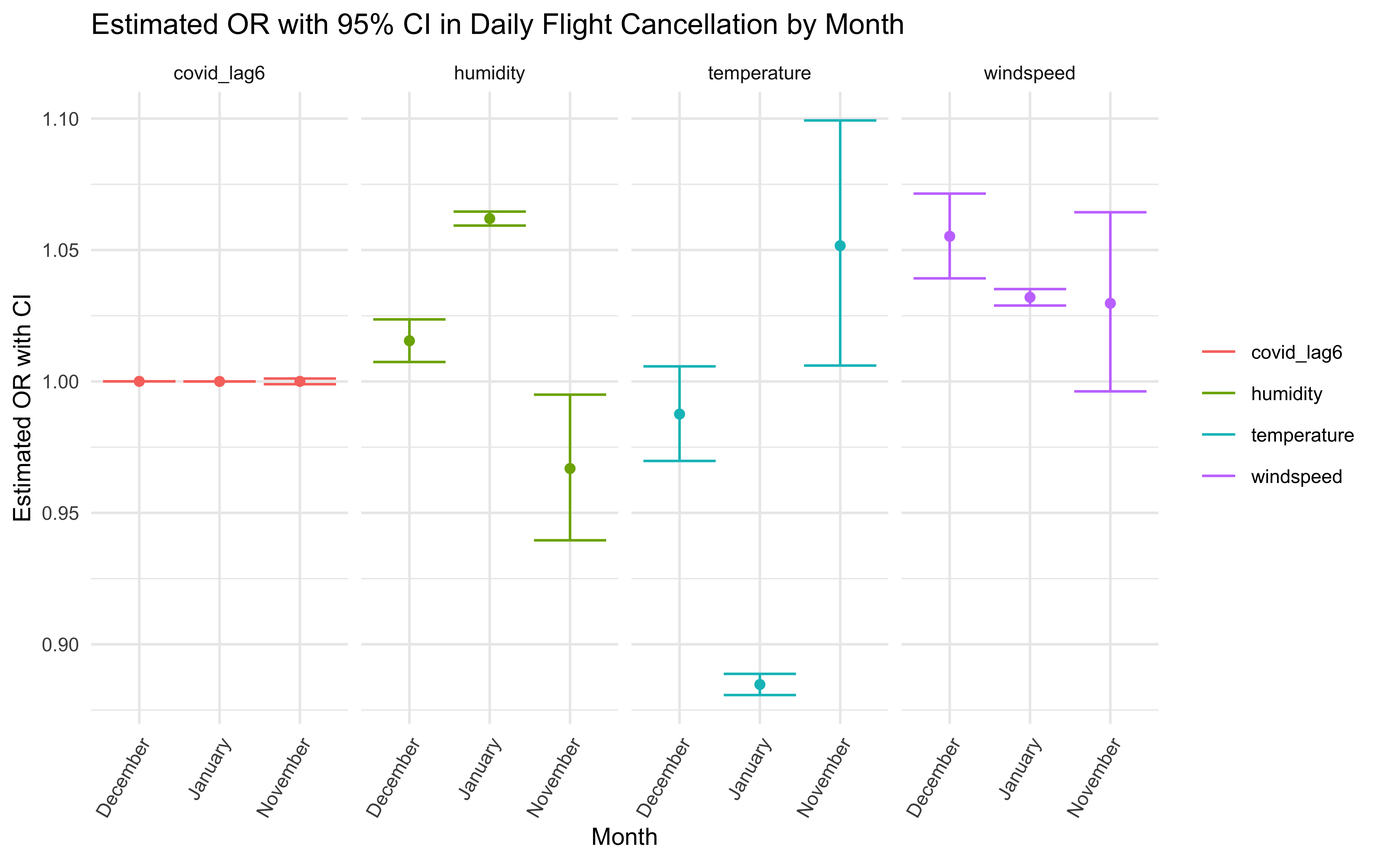
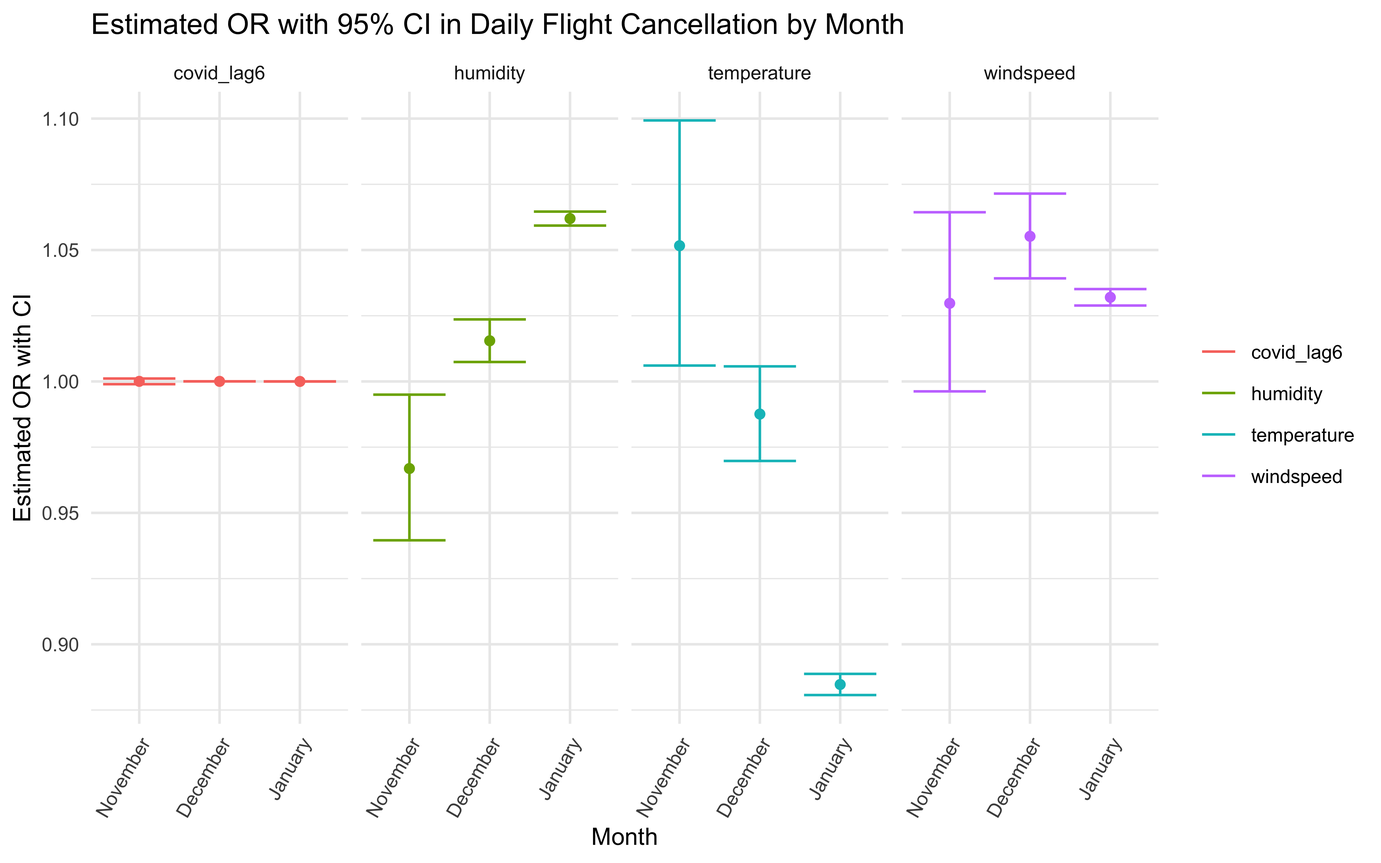
update poisson model

diff --git a/web_poisson.html b/web_poisson.html
@@ -600,7 +600,7 @@ United Air Lines
 </tr>
 </tbody>
 </table>
-<pre class="r"><code>cancel_airline %&gt;% 
+<pre class="r"><code>plot1 &lt;- cancel_airline %&gt;% 
   mutate(year_month = fct_relevel(year_month, &quot;2021-Nov&quot;, &quot;2021-Dec&quot;, &quot;2022-Jan&quot;)) %&gt;%
   ggplot(aes(x = year_month, y = Total_number_of_cancellation, fill = airline_name)) +
   geom_col(position = &quot;dodge&quot;, alpha = .7) +
@@ -614,9 +614,9 @@ United Air Lines
     fill = &quot;Airline&quot;,
     title = &quot;Flight Cancellations by Month&quot;,
     subtitle = &quot;Nov, 2021 to Jan, 2022&quot;
-  )</code></pre>
-<p><img src="web_poisson_files/figure-html/unnamed-chunk-5-1.png" width="80%" /></p>
-<pre class="r"><code>cancel_airline %&gt;% 
+  )
+
+plot2 &lt;- cancel_airline %&gt;% 
   mutate(year_month = fct_relevel(year_month, &quot;2021-Nov&quot;, &quot;2021-Dec&quot;, &quot;2022-Jan&quot;)) %&gt;% 
   ggplot(aes(x = airline_name, y = Total_number_of_cancellation, fill = year_month)) +
   geom_col(position = &quot;dodge&quot;, alpha = .7) +
@@ -630,8 +630,10 @@ United Air Lines
     fill = &quot;Year, Month&quot;,
     title = &quot;Flight Cancellations by Month&quot;,
     subtitle = &quot;Nov, 2021 to Jan, 2022&quot;
-  )</code></pre>
-<p><img src="web_poisson_files/figure-html/unnamed-chunk-6-1.png" width="80%" /></p>
+  )
+
+plot1 + plot2</code></pre>
+<p><img src="web_poisson_files/figure-html/unnamed-chunk-5-1.png" width="80%" /></p>
 <p><br></p>
 </div>
 <div id="lagging-covid-cases" class="section level3">
@@ -666,9 +668,9 @@ scatter_plot &lt;- subplot(cancel_plot, covid_plot, nrows = 2, shareX = TRUE) %&
          showlegend = FALSE)
 
 scatter_plot</code></pre>
-<div id="htmlwidget-cc10683bdfa9083f08fa" style="width:90%;height:70%;" class="plotly html-widget"></div>
-<script type="application/json" data-for="htmlwidget-cc10683bdfa9083f08fa">{"x":{"data":[{"x":["2021-11-01","2021-11-02","2021-11-06","2021-11-07","2021-11-08","2021-11-10","2021-11-11","2021-11-12","2021-11-13","2021-11-15","2021-11-16","2021-11-17","2021-11-18","2021-11-21","2021-11-22","2021-11-25","2021-11-26","2021-11-28","2021-11-29","2021-11-30","2021-12-01","2021-12-07","2021-12-08","2021-12-09","2021-12-10","2021-12-11","2021-12-13","2021-12-14","2021-12-15","2021-12-16","2021-12-18","2021-12-20","2021-12-21","2021-12-22","2021-12-23","2021-12-24","2021-12-25","2021-12-26","2021-12-27","2021-12-28","2021-12-29","2021-12-30","2021-12-31","2022-01-01","2022-01-02","2022-01-03","2022-01-04","2022-01-05","2022-01-06","2022-01-07","2022-01-08","2022-01-09","2022-01-10","2022-01-11","2022-01-12","2022-01-13","2022-01-14","2022-01-15","2022-01-16","2022-01-17","2022-01-18","2022-01-19","2022-01-20","2022-01-21","2022-01-22","2022-01-23","2022-01-24","2022-01-25","2022-01-26","2022-01-27","2022-01-28","2022-01-29","2022-01-30","2022-01-31"],"y":[9,2,2,1,2,6,1,3,5,2,2,2,3,1,1,3,2,1,3,1,2,3,2,2,4,4,3,1,2,2,3,1,2,2,8,19,30,35,27,19,22,38,29,39,54,49,28,6,16,127,11,8,9,5,5,3,2,6,57,15,6,4,17,21,5,3,2,3,2,2,52,333,206,33],"mode":"lines+markers","text":["Date: 2021-11-01<br />Cancellation Count: 9","Date: 2021-11-02<br />Cancellation Count: 2","Date: 2021-11-06<br />Cancellation Count: 2","Date: 2021-11-07<br />Cancellation Count: 1","Date: 2021-11-08<br />Cancellation Count: 2","Date: 2021-11-10<br />Cancellation Count: 6","Date: 2021-11-11<br />Cancellation Count: 1","Date: 2021-11-12<br />Cancellation Count: 3","Date: 2021-11-13<br />Cancellation Count: 5","Date: 2021-11-15<br />Cancellation Count: 2","Date: 2021-11-16<br />Cancellation Count: 2","Date: 2021-11-17<br />Cancellation Count: 2","Date: 2021-11-18<br />Cancellation Count: 3","Date: 2021-11-21<br />Cancellation Count: 1","Date: 2021-11-22<br />Cancellation Count: 1","Date: 2021-11-25<br />Cancellation Count: 3","Date: 2021-11-26<br />Cancellation Count: 2","Date: 2021-11-28<br />Cancellation Count: 1","Date: 2021-11-29<br />Cancellation Count: 3","Date: 2021-11-30<br />Cancellation Count: 1","Date: 2021-12-01<br />Cancellation Count: 2","Date: 2021-12-07<br />Cancellation Count: 3","Date: 2021-12-08<br />Cancellation Count: 2","Date: 2021-12-09<br />Cancellation Count: 2","Date: 2021-12-10<br />Cancellation Count: 4","Date: 2021-12-11<br />Cancellation Count: 4","Date: 2021-12-13<br />Cancellation Count: 3","Date: 2021-12-14<br />Cancellation Count: 1","Date: 2021-12-15<br />Cancellation Count: 2","Date: 2021-12-16<br />Cancellation Count: 2","Date: 2021-12-18<br />Cancellation Count: 3","Date: 2021-12-20<br />Cancellation Count: 1","Date: 2021-12-21<br />Cancellation Count: 2","Date: 2021-12-22<br />Cancellation Count: 2","Date: 2021-12-23<br />Cancellation Count: 8","Date: 2021-12-24<br />Cancellation Count: 19","Date: 2021-12-25<br />Cancellation Count: 30","Date: 2021-12-26<br />Cancellation Count: 35","Date: 2021-12-27<br />Cancellation Count: 27","Date: 2021-12-28<br />Cancellation Count: 19","Date: 2021-12-29<br />Cancellation Count: 22","Date: 2021-12-30<br />Cancellation Count: 38","Date: 2021-12-31<br />Cancellation Count: 29","Date: 2022-01-01<br />Cancellation Count: 39","Date: 2022-01-02<br />Cancellation Count: 54","Date: 2022-01-03<br />Cancellation Count: 49","Date: 2022-01-04<br />Cancellation Count: 28","Date: 2022-01-05<br />Cancellation Count: 6","Date: 2022-01-06<br />Cancellation Count: 16","Date: 2022-01-07<br />Cancellation Count: 127","Date: 2022-01-08<br />Cancellation Count: 11","Date: 2022-01-09<br />Cancellation Count: 8","Date: 2022-01-10<br />Cancellation Count: 9","Date: 2022-01-11<br />Cancellation Count: 5","Date: 2022-01-12<br />Cancellation Count: 5","Date: 2022-01-13<br />Cancellation Count: 3","Date: 2022-01-14<br />Cancellation Count: 2","Date: 2022-01-15<br />Cancellation Count: 6","Date: 2022-01-16<br />Cancellation Count: 57","Date: 2022-01-17<br />Cancellation Count: 15","Date: 2022-01-18<br />Cancellation Count: 6","Date: 2022-01-19<br />Cancellation Count: 4","Date: 2022-01-20<br />Cancellation Count: 17","Date: 2022-01-21<br />Cancellation Count: 21","Date: 2022-01-22<br />Cancellation Count: 5","Date: 2022-01-23<br />Cancellation Count: 3","Date: 2022-01-24<br />Cancellation Count: 2","Date: 2022-01-25<br />Cancellation Count: 3","Date: 2022-01-26<br />Cancellation Count: 2","Date: 2022-01-27<br />Cancellation Count: 2","Date: 2022-01-28<br />Cancellation Count: 52","Date: 2022-01-29<br />Cancellation Count: 333","Date: 2022-01-30<br />Cancellation Count: 206","Date: 2022-01-31<br />Cancellation Count: 33"],"hoverinfo":["text","text","text","text","text","text","text","text","text","text","text","text","text","text","text","text","text","text","text","text","text","text","text","text","text","text","text","text","text","text","text","text","text","text","text","text","text","text","text","text","text","text","text","text","text","text","text","text","text","text","text","text","text","text","text","text","text","text","text","text","text","text","text","text","text","text","text","text","text","text","text","text","text","text"],"type":"scatter","marker":{"color":"rgba(31,119,180,0.498)","line":{"color":"rgba(31,119,180,1)"}},"error_y":{"color":"rgba(31,119,180,0.498)"},"error_x":{"color":"rgba(31,119,180,0.498)"},"line":{"color":"rgba(31,119,180,0.498)"},"xaxis":"x","yaxis":"y","frame":null},{"x":["2021-11-01","2021-11-02","2021-11-06","2021-11-07","2021-11-08","2021-11-10","2021-11-11","2021-11-12","2021-11-13","2021-11-15","2021-11-16","2021-11-17","2021-11-18","2021-11-21","2021-11-22","2021-11-25","2021-11-26","2021-11-28","2021-11-29","2021-11-30","2021-12-01","2021-12-07","2021-12-08","2021-12-09","2021-12-10","2021-12-11","2021-12-13","2021-12-14","2021-12-15","2021-12-16","2021-12-18","2021-12-20","2021-12-21","2021-12-22","2021-12-23","2021-12-24","2021-12-25","2021-12-26","2021-12-27","2021-12-28","2021-12-29","2021-12-30","2021-12-31","2022-01-01","2022-01-02","2022-01-03","2022-01-04","2022-01-05","2022-01-06","2022-01-07","2022-01-08","2022-01-09","2022-01-10","2022-01-11","2022-01-12","2022-01-13","2022-01-14","2022-01-15","2022-01-16","2022-01-17","2022-01-18","2022-01-19","2022-01-20","2022-01-21","2022-01-22","2022-01-23","2022-01-24","2022-01-25","2022-01-26","2022-01-27","2022-01-28","2022-01-29","2022-01-30","2022-01-31"],"y":[780,806,508,542,1135,1049,875,1028,614,1263,1272,1329,1310,840,1528,531,1171,1060,2328,2006,2180,2922,3136,3022,3089,2159,7529,10875,13167,13866,9949,27953,30410,31401,31822,17475,7796,22991,51247,49688,50506,47451,29136,12063,32514,54958,49209,40241,36371,23206,16192,14352,25033,18537,18441,16096,13290,6759,6893,9828,10921,9030,7043,5797,3632,3397,6017,4763,4199,3634,2725,512,1425,3112],"mode":"lines+markers","text":["Date: 2021-11-01<br />COVID Cases Count: 780","Date: 2021-11-02<br />COVID Cases Count: 806","Date: 2021-11-06<br />COVID Cases Count: 508","Date: 2021-11-07<br />COVID Cases Count: 542","Date: 2021-11-08<br />COVID Cases Count: 1135","Date: 2021-11-10<br />COVID Cases Count: 1049","Date: 2021-11-11<br />COVID Cases Count: 875","Date: 2021-11-12<br />COVID Cases Count: 1028","Date: 2021-11-13<br />COVID Cases Count: 614","Date: 2021-11-15<br />COVID Cases Count: 1263","Date: 2021-11-16<br />COVID Cases Count: 1272","Date: 2021-11-17<br />COVID Cases Count: 1329","Date: 2021-11-18<br />COVID Cases Count: 1310","Date: 2021-11-21<br />COVID Cases Count: 840","Date: 2021-11-22<br />COVID Cases Count: 1528","Date: 2021-11-25<br />COVID Cases Count: 531","Date: 2021-11-26<br />COVID Cases Count: 1171","Date: 2021-11-28<br />COVID Cases Count: 1060","Date: 2021-11-29<br />COVID Cases Count: 2328","Date: 2021-11-30<br />COVID Cases Count: 2006","Date: 2021-12-01<br />COVID Cases Count: 2180","Date: 2021-12-07<br />COVID Cases Count: 2922","Date: 2021-12-08<br />COVID Cases Count: 3136","Date: 2021-12-09<br />COVID Cases Count: 3022","Date: 2021-12-10<br />COVID Cases Count: 3089","Date: 2021-12-11<br />COVID Cases Count: 2159","Date: 2021-12-13<br />COVID Cases Count: 7529","Date: 2021-12-14<br />COVID Cases Count: 10875","Date: 2021-12-15<br />COVID Cases Count: 13167","Date: 2021-12-16<br />COVID Cases Count: 13866","Date: 2021-12-18<br />COVID Cases Count: 9949","Date: 2021-12-20<br />COVID Cases Count: 27953","Date: 2021-12-21<br />COVID Cases Count: 30410","Date: 2021-12-22<br />COVID Cases Count: 31401","Date: 2021-12-23<br />COVID Cases Count: 31822","Date: 2021-12-24<br />COVID Cases Count: 17475","Date: 2021-12-25<br />COVID Cases Count: 7796","Date: 2021-12-26<br />COVID Cases Count: 22991","Date: 2021-12-27<br />COVID Cases Count: 51247","Date: 2021-12-28<br />COVID Cases Count: 49688","Date: 2021-12-29<br />COVID Cases Count: 50506","Date: 2021-12-30<br />COVID Cases Count: 47451","Date: 2021-12-31<br />COVID Cases Count: 29136","Date: 2022-01-01<br />COVID Cases Count: 12063","Date: 2022-01-02<br />COVID Cases Count: 32514","Date: 2022-01-03<br />COVID Cases Count: 54958","Date: 2022-01-04<br />COVID Cases Count: 49209","Date: 2022-01-05<br />COVID Cases Count: 40241","Date: 2022-01-06<br />COVID Cases Count: 36371","Date: 2022-01-07<br />COVID Cases Count: 23206","Date: 2022-01-08<br />COVID Cases Count: 16192","Date: 2022-01-09<br />COVID Cases Count: 14352","Date: 2022-01-10<br />COVID Cases Count: 25033","Date: 2022-01-11<br />COVID Cases Count: 18537","Date: 2022-01-12<br />COVID Cases Count: 18441","Date: 2022-01-13<br />COVID Cases Count: 16096","Date: 2022-01-14<br />COVID Cases Count: 13290","Date: 2022-01-15<br />COVID Cases Count: 6759","Date: 2022-01-16<br />COVID Cases Count: 6893","Date: 2022-01-17<br />COVID Cases Count: 9828","Date: 2022-01-18<br />COVID Cases Count: 10921","Date: 2022-01-19<br />COVID Cases Count: 9030","Date: 2022-01-20<br />COVID Cases Count: 7043","Date: 2022-01-21<br />COVID Cases Count: 5797","Date: 2022-01-22<br />COVID Cases Count: 3632","Date: 2022-01-23<br />COVID Cases Count: 3397","Date: 2022-01-24<br />COVID Cases Count: 6017","Date: 2022-01-25<br />COVID Cases Count: 4763","Date: 2022-01-26<br />COVID Cases Count: 4199","Date: 2022-01-27<br />COVID Cases Count: 3634","Date: 2022-01-28<br />COVID Cases Count: 2725","Date: 2022-01-29<br />COVID Cases Count: 512","Date: 2022-01-30<br />COVID Cases Count: 1425","Date: 2022-01-31<br />COVID Cases Count: 3112"],"hoverinfo":["text","text","text","text","text","text","text","text","text","text","text","text","text","text","text","text","text","text","text","text","text","text","text","text","text","text","text","text","text","text","text","text","text","text","text","text","text","text","text","text","text","text","text","text","text","text","text","text","text","text","text","text","text","text","text","text","text","text","text","text","text","text","text","text","text","text","text","text","text","text","text","text","text","text"],"type":"scatter","marker":{"color":"rgba(255,127,14,0.498)","line":{"color":"rgba(255,127,14,1)"}},"error_y":{"color":"rgba(255,127,14,0.498)"},"error_x":{"color":"rgba(255,127,14,0.498)"},"line":{"color":"rgba(255,127,14,0.498)"},"xaxis":"x","yaxis":"y2","frame":null}],"layout":{"xaxis":{"domain":[0,1],"automargin":true,"title":"Date","anchor":"y2"},"yaxis2":{"domain":[0,0.48],"automargin":true,"anchor":"x"},"yaxis":{"domain":[0.52,1],"automargin":true,"anchor":"x"},"annotations":[{"x":0.1,"y":0.904,"text":"Daily Flight Cncellations","showarrow":false,"xref":"paper","yref":"paper"},{"x":0.1,"y":0.384,"text":"Daily COVID Cases","showarrow":false,"xref":"paper","yref":"paper"}],"shapes":[],"images":[],"margin":{"b":40,"l":60,"t":25,"r":10},"hovermode":"closest","showlegend":false,"title":{"text":"Time Trend of Daily Cancellations vs. Daily COVID Cases"}},"attrs":{"1238a58766f6b":{"x":{},"y":{},"mode":"lines+markers","text":{},"hoverinfo":"text","alpha":0.5,"alpha_stroke":1,"sizes":[10,100],"spans":[1,20],"type":"scatter"},"1238a478d072c":{"x":{},"y":{},"mode":"lines+markers","text":{},"hoverinfo":"text","alpha":0.5,"alpha_stroke":1,"sizes":[10,100],"spans":[1,20],"type":"scatter"}},"source":"A","config":{"modeBarButtonsToAdd":["hoverclosest","hovercompare"],"showSendToCloud":false},"highlight":{"on":"plotly_click","persistent":false,"dynamic":false,"selectize":false,"opacityDim":0.2,"selected":{"opacity":1},"debounce":0},"subplot":true,"shinyEvents":["plotly_hover","plotly_click","plotly_selected","plotly_relayout","plotly_brushed","plotly_brushing","plotly_clickannotation","plotly_doubleclick","plotly_deselect","plotly_afterplot","plotly_sunburstclick"],"base_url":"https://plot.ly"},"evals":[],"jsHooks":[]}</script>
-<p>We used the lag selection criteria and Akaike’s information criterion
+<div id="htmlwidget-ccfb36fd293a960bd135" style="width:90%;height:70%;" class="plotly html-widget"></div>
+<script type="application/json" data-for="htmlwidget-ccfb36fd293a960bd135">{"x":{"data":[{"x":["2021-11-01","2021-11-02","2021-11-06","2021-11-07","2021-11-08","2021-11-10","2021-11-11","2021-11-12","2021-11-13","2021-11-15","2021-11-16","2021-11-17","2021-11-18","2021-11-21","2021-11-22","2021-11-25","2021-11-26","2021-11-28","2021-11-29","2021-11-30","2021-12-01","2021-12-07","2021-12-08","2021-12-09","2021-12-10","2021-12-11","2021-12-13","2021-12-14","2021-12-15","2021-12-16","2021-12-18","2021-12-20","2021-12-21","2021-12-22","2021-12-23","2021-12-24","2021-12-25","2021-12-26","2021-12-27","2021-12-28","2021-12-29","2021-12-30","2021-12-31","2022-01-01","2022-01-02","2022-01-03","2022-01-04","2022-01-05","2022-01-06","2022-01-07","2022-01-08","2022-01-09","2022-01-10","2022-01-11","2022-01-12","2022-01-13","2022-01-14","2022-01-15","2022-01-16","2022-01-17","2022-01-18","2022-01-19","2022-01-20","2022-01-21","2022-01-22","2022-01-23","2022-01-24","2022-01-25","2022-01-26","2022-01-27","2022-01-28","2022-01-29","2022-01-30","2022-01-31"],"y":[9,2,2,1,2,6,1,3,5,2,2,2,3,1,1,3,2,1,3,1,2,3,2,2,4,4,3,1,2,2,3,1,2,2,8,19,30,35,27,19,22,38,29,39,54,49,28,6,16,127,11,8,9,5,5,3,2,6,57,15,6,4,17,21,5,3,2,3,2,2,52,333,206,33],"mode":"lines+markers","text":["Date: 2021-11-01<br />Cancellation Count: 9","Date: 2021-11-02<br />Cancellation Count: 2","Date: 2021-11-06<br />Cancellation Count: 2","Date: 2021-11-07<br />Cancellation Count: 1","Date: 2021-11-08<br />Cancellation Count: 2","Date: 2021-11-10<br />Cancellation Count: 6","Date: 2021-11-11<br />Cancellation Count: 1","Date: 2021-11-12<br />Cancellation Count: 3","Date: 2021-11-13<br />Cancellation Count: 5","Date: 2021-11-15<br />Cancellation Count: 2","Date: 2021-11-16<br />Cancellation Count: 2","Date: 2021-11-17<br />Cancellation Count: 2","Date: 2021-11-18<br />Cancellation Count: 3","Date: 2021-11-21<br />Cancellation Count: 1","Date: 2021-11-22<br />Cancellation Count: 1","Date: 2021-11-25<br />Cancellation Count: 3","Date: 2021-11-26<br />Cancellation Count: 2","Date: 2021-11-28<br />Cancellation Count: 1","Date: 2021-11-29<br />Cancellation Count: 3","Date: 2021-11-30<br />Cancellation Count: 1","Date: 2021-12-01<br />Cancellation Count: 2","Date: 2021-12-07<br />Cancellation Count: 3","Date: 2021-12-08<br />Cancellation Count: 2","Date: 2021-12-09<br />Cancellation Count: 2","Date: 2021-12-10<br />Cancellation Count: 4","Date: 2021-12-11<br />Cancellation Count: 4","Date: 2021-12-13<br />Cancellation Count: 3","Date: 2021-12-14<br />Cancellation Count: 1","Date: 2021-12-15<br />Cancellation Count: 2","Date: 2021-12-16<br />Cancellation Count: 2","Date: 2021-12-18<br />Cancellation Count: 3","Date: 2021-12-20<br />Cancellation Count: 1","Date: 2021-12-21<br />Cancellation Count: 2","Date: 2021-12-22<br />Cancellation Count: 2","Date: 2021-12-23<br />Cancellation Count: 8","Date: 2021-12-24<br />Cancellation Count: 19","Date: 2021-12-25<br />Cancellation Count: 30","Date: 2021-12-26<br />Cancellation Count: 35","Date: 2021-12-27<br />Cancellation Count: 27","Date: 2021-12-28<br />Cancellation Count: 19","Date: 2021-12-29<br />Cancellation Count: 22","Date: 2021-12-30<br />Cancellation Count: 38","Date: 2021-12-31<br />Cancellation Count: 29","Date: 2022-01-01<br />Cancellation Count: 39","Date: 2022-01-02<br />Cancellation Count: 54","Date: 2022-01-03<br />Cancellation Count: 49","Date: 2022-01-04<br />Cancellation Count: 28","Date: 2022-01-05<br />Cancellation Count: 6","Date: 2022-01-06<br />Cancellation Count: 16","Date: 2022-01-07<br />Cancellation Count: 127","Date: 2022-01-08<br />Cancellation Count: 11","Date: 2022-01-09<br />Cancellation Count: 8","Date: 2022-01-10<br />Cancellation Count: 9","Date: 2022-01-11<br />Cancellation Count: 5","Date: 2022-01-12<br />Cancellation Count: 5","Date: 2022-01-13<br />Cancellation Count: 3","Date: 2022-01-14<br />Cancellation Count: 2","Date: 2022-01-15<br />Cancellation Count: 6","Date: 2022-01-16<br />Cancellation Count: 57","Date: 2022-01-17<br />Cancellation Count: 15","Date: 2022-01-18<br />Cancellation Count: 6","Date: 2022-01-19<br />Cancellation Count: 4","Date: 2022-01-20<br />Cancellation Count: 17","Date: 2022-01-21<br />Cancellation Count: 21","Date: 2022-01-22<br />Cancellation Count: 5","Date: 2022-01-23<br />Cancellation Count: 3","Date: 2022-01-24<br />Cancellation Count: 2","Date: 2022-01-25<br />Cancellation Count: 3","Date: 2022-01-26<br />Cancellation Count: 2","Date: 2022-01-27<br />Cancellation Count: 2","Date: 2022-01-28<br />Cancellation Count: 52","Date: 2022-01-29<br />Cancellation Count: 333","Date: 2022-01-30<br />Cancellation Count: 206","Date: 2022-01-31<br />Cancellation Count: 33"],"hoverinfo":["text","text","text","text","text","text","text","text","text","text","text","text","text","text","text","text","text","text","text","text","text","text","text","text","text","text","text","text","text","text","text","text","text","text","text","text","text","text","text","text","text","text","text","text","text","text","text","text","text","text","text","text","text","text","text","text","text","text","text","text","text","text","text","text","text","text","text","text","text","text","text","text","text","text"],"type":"scatter","marker":{"color":"rgba(31,119,180,0.498)","line":{"color":"rgba(31,119,180,1)"}},"error_y":{"color":"rgba(31,119,180,0.498)"},"error_x":{"color":"rgba(31,119,180,0.498)"},"line":{"color":"rgba(31,119,180,0.498)"},"xaxis":"x","yaxis":"y","frame":null},{"x":["2021-11-01","2021-11-02","2021-11-06","2021-11-07","2021-11-08","2021-11-10","2021-11-11","2021-11-12","2021-11-13","2021-11-15","2021-11-16","2021-11-17","2021-11-18","2021-11-21","2021-11-22","2021-11-25","2021-11-26","2021-11-28","2021-11-29","2021-11-30","2021-12-01","2021-12-07","2021-12-08","2021-12-09","2021-12-10","2021-12-11","2021-12-13","2021-12-14","2021-12-15","2021-12-16","2021-12-18","2021-12-20","2021-12-21","2021-12-22","2021-12-23","2021-12-24","2021-12-25","2021-12-26","2021-12-27","2021-12-28","2021-12-29","2021-12-30","2021-12-31","2022-01-01","2022-01-02","2022-01-03","2022-01-04","2022-01-05","2022-01-06","2022-01-07","2022-01-08","2022-01-09","2022-01-10","2022-01-11","2022-01-12","2022-01-13","2022-01-14","2022-01-15","2022-01-16","2022-01-17","2022-01-18","2022-01-19","2022-01-20","2022-01-21","2022-01-22","2022-01-23","2022-01-24","2022-01-25","2022-01-26","2022-01-27","2022-01-28","2022-01-29","2022-01-30","2022-01-31"],"y":[780,806,508,542,1135,1049,875,1028,614,1263,1272,1329,1310,840,1528,531,1171,1060,2328,2006,2180,2922,3136,3022,3089,2159,7529,10875,13167,13866,9949,27953,30410,31401,31822,17475,7796,22991,51247,49688,50506,47451,29136,12063,32514,54958,49209,40241,36371,23206,16192,14352,25033,18537,18441,16096,13290,6759,6893,9828,10921,9030,7043,5797,3632,3397,6017,4763,4199,3634,2725,512,1425,3112],"mode":"lines+markers","text":["Date: 2021-11-01<br />COVID Cases Count: 780","Date: 2021-11-02<br />COVID Cases Count: 806","Date: 2021-11-06<br />COVID Cases Count: 508","Date: 2021-11-07<br />COVID Cases Count: 542","Date: 2021-11-08<br />COVID Cases Count: 1135","Date: 2021-11-10<br />COVID Cases Count: 1049","Date: 2021-11-11<br />COVID Cases Count: 875","Date: 2021-11-12<br />COVID Cases Count: 1028","Date: 2021-11-13<br />COVID Cases Count: 614","Date: 2021-11-15<br />COVID Cases Count: 1263","Date: 2021-11-16<br />COVID Cases Count: 1272","Date: 2021-11-17<br />COVID Cases Count: 1329","Date: 2021-11-18<br />COVID Cases Count: 1310","Date: 2021-11-21<br />COVID Cases Count: 840","Date: 2021-11-22<br />COVID Cases Count: 1528","Date: 2021-11-25<br />COVID Cases Count: 531","Date: 2021-11-26<br />COVID Cases Count: 1171","Date: 2021-11-28<br />COVID Cases Count: 1060","Date: 2021-11-29<br />COVID Cases Count: 2328","Date: 2021-11-30<br />COVID Cases Count: 2006","Date: 2021-12-01<br />COVID Cases Count: 2180","Date: 2021-12-07<br />COVID Cases Count: 2922","Date: 2021-12-08<br />COVID Cases Count: 3136","Date: 2021-12-09<br />COVID Cases Count: 3022","Date: 2021-12-10<br />COVID Cases Count: 3089","Date: 2021-12-11<br />COVID Cases Count: 2159","Date: 2021-12-13<br />COVID Cases Count: 7529","Date: 2021-12-14<br />COVID Cases Count: 10875","Date: 2021-12-15<br />COVID Cases Count: 13167","Date: 2021-12-16<br />COVID Cases Count: 13866","Date: 2021-12-18<br />COVID Cases Count: 9949","Date: 2021-12-20<br />COVID Cases Count: 27953","Date: 2021-12-21<br />COVID Cases Count: 30410","Date: 2021-12-22<br />COVID Cases Count: 31401","Date: 2021-12-23<br />COVID Cases Count: 31822","Date: 2021-12-24<br />COVID Cases Count: 17475","Date: 2021-12-25<br />COVID Cases Count: 7796","Date: 2021-12-26<br />COVID Cases Count: 22991","Date: 2021-12-27<br />COVID Cases Count: 51247","Date: 2021-12-28<br />COVID Cases Count: 49688","Date: 2021-12-29<br />COVID Cases Count: 50506","Date: 2021-12-30<br />COVID Cases Count: 47451","Date: 2021-12-31<br />COVID Cases Count: 29136","Date: 2022-01-01<br />COVID Cases Count: 12063","Date: 2022-01-02<br />COVID Cases Count: 32514","Date: 2022-01-03<br />COVID Cases Count: 54958","Date: 2022-01-04<br />COVID Cases Count: 49209","Date: 2022-01-05<br />COVID Cases Count: 40241","Date: 2022-01-06<br />COVID Cases Count: 36371","Date: 2022-01-07<br />COVID Cases Count: 23206","Date: 2022-01-08<br />COVID Cases Count: 16192","Date: 2022-01-09<br />COVID Cases Count: 14352","Date: 2022-01-10<br />COVID Cases Count: 25033","Date: 2022-01-11<br />COVID Cases Count: 18537","Date: 2022-01-12<br />COVID Cases Count: 18441","Date: 2022-01-13<br />COVID Cases Count: 16096","Date: 2022-01-14<br />COVID Cases Count: 13290","Date: 2022-01-15<br />COVID Cases Count: 6759","Date: 2022-01-16<br />COVID Cases Count: 6893","Date: 2022-01-17<br />COVID Cases Count: 9828","Date: 2022-01-18<br />COVID Cases Count: 10921","Date: 2022-01-19<br />COVID Cases Count: 9030","Date: 2022-01-20<br />COVID Cases Count: 7043","Date: 2022-01-21<br />COVID Cases Count: 5797","Date: 2022-01-22<br />COVID Cases Count: 3632","Date: 2022-01-23<br />COVID Cases Count: 3397","Date: 2022-01-24<br />COVID Cases Count: 6017","Date: 2022-01-25<br />COVID Cases Count: 4763","Date: 2022-01-26<br />COVID Cases Count: 4199","Date: 2022-01-27<br />COVID Cases Count: 3634","Date: 2022-01-28<br />COVID Cases Count: 2725","Date: 2022-01-29<br />COVID Cases Count: 512","Date: 2022-01-30<br />COVID Cases Count: 1425","Date: 2022-01-31<br />COVID Cases Count: 3112"],"hoverinfo":["text","text","text","text","text","text","text","text","text","text","text","text","text","text","text","text","text","text","text","text","text","text","text","text","text","text","text","text","text","text","text","text","text","text","text","text","text","text","text","text","text","text","text","text","text","text","text","text","text","text","text","text","text","text","text","text","text","text","text","text","text","text","text","text","text","text","text","text","text","text","text","text","text","text"],"type":"scatter","marker":{"color":"rgba(255,127,14,0.498)","line":{"color":"rgba(255,127,14,1)"}},"error_y":{"color":"rgba(255,127,14,0.498)"},"error_x":{"color":"rgba(255,127,14,0.498)"},"line":{"color":"rgba(255,127,14,0.498)"},"xaxis":"x","yaxis":"y2","frame":null}],"layout":{"xaxis":{"domain":[0,1],"automargin":true,"title":"Date","anchor":"y2"},"yaxis2":{"domain":[0,0.48],"automargin":true,"anchor":"x"},"yaxis":{"domain":[0.52,1],"automargin":true,"anchor":"x"},"annotations":[{"x":0.1,"y":0.904,"text":"Daily Flight Cncellations","showarrow":false,"xref":"paper","yref":"paper"},{"x":0.1,"y":0.384,"text":"Daily COVID Cases","showarrow":false,"xref":"paper","yref":"paper"}],"shapes":[],"images":[],"margin":{"b":40,"l":60,"t":25,"r":10},"hovermode":"closest","showlegend":false,"title":{"text":"Time Trend of Daily Cancellations vs. Daily COVID Cases"}},"attrs":{"127d15d013661":{"x":{},"y":{},"mode":"lines+markers","text":{},"hoverinfo":"text","alpha":0.5,"alpha_stroke":1,"sizes":[10,100],"spans":[1,20],"type":"scatter"},"127d17a9949fa":{"x":{},"y":{},"mode":"lines+markers","text":{},"hoverinfo":"text","alpha":0.5,"alpha_stroke":1,"sizes":[10,100],"spans":[1,20],"type":"scatter"}},"source":"A","config":{"modeBarButtonsToAdd":["hoverclosest","hovercompare"],"showSendToCloud":false},"highlight":{"on":"plotly_click","persistent":false,"dynamic":false,"selectize":false,"opacityDim":0.2,"selected":{"opacity":1},"debounce":0},"subplot":true,"shinyEvents":["plotly_hover","plotly_click","plotly_selected","plotly_relayout","plotly_brushed","plotly_brushing","plotly_clickannotation","plotly_doubleclick","plotly_deselect","plotly_afterplot","plotly_sunburstclick"],"base_url":"https://plot.ly"},"evals":[],"jsHooks":[]}</script>
+<p>We used the lag selection criteria and Akaike information criterion
 (AIC) to select 6 days as the optimal time lag. Then, we constructed a
 new variable named <code>covid_lag6</code>, equivalent to the value of
 COVID-19 cases with a 6-day time lag.</p>
@@ -694,12 +696,9 @@ poisson %&gt;%
     p.value = format(p.value, scientific = TRUE, digits = 3)
   ) %&gt;% 
   dplyr::select(term, estimate, OR, p.value) %&gt;% 
-  knitr::kable(digits = 3, col.names = c(&quot;Terms&quot;, &quot;Estimate (log(OR))&quot;, &quot;Estimated adjusted OR&quot;, &quot;P-value&quot;), caption = &quot;Poisson model&quot;) %&gt;% 
+  knitr::kable(digits = 3, col.names = c(&quot;Terms&quot;, &quot;Estimate (log(OR))&quot;, &quot;Estimated adjusted OR&quot;, &quot;P-value&quot;)) %&gt;% 
   kable_styling()</code></pre>
 <table class="table" style="margin-left: auto; margin-right: auto;">
-<caption>
-Poisson model
-</caption>
 <thead>
 <tr>
 <th style="text-align:left;">
@@ -820,12 +819,9 @@ while holding all other variables constant in the model.</p>
   pivot_wider(
     names_from = term, 
     values_from = estimate) %&gt;% 
-  knitr::kable(digits = 6, caption = &quot;Poisson model nested by month&quot;)%&gt;% 
+  knitr::kable(digits = 6)%&gt;% 
   kable_styling()</code></pre>
 <table class="table" style="margin-left: auto; margin-right: auto;">
-<caption>
-Poisson model nested by month
-</caption>
 <thead>
 <tr>
 <th style="text-align:left;">
@@ -933,12 +929,9 @@ January
 
 poisson_by_month %&gt;% 
   filter(term != &quot;(Intercept)&quot; ) %&gt;% 
-  knitr::kable(digits = 3, align = &quot;llccc&quot;, col.names = c(&quot;Month&quot;, &quot;Terms&quot;, &quot;Estimated adjusted OR&quot;, &quot;CI lower bound&quot;, &quot;CI upper bound&quot;, &quot;P-value&quot;), caption = &quot;Overview of estimated OR, 95% CI and P-value&quot;) %&gt;% 
+  knitr::kable(digits = 3, align = &quot;llccc&quot;, col.names = c(&quot;Month&quot;, &quot;Terms&quot;, &quot;Estimated adjusted OR&quot;, &quot;CI lower bound&quot;, &quot;CI upper bound&quot;, &quot;P-value&quot;)) %&gt;% 
   kable_styling()</code></pre>
 <table class="table" style="margin-left: auto; margin-right: auto;">
-<caption>
-Overview of estimated OR, 95% CI and P-value
-</caption>
 <thead>
 <tr>
 <th style="text-align:left;">
@@ -1208,9 +1201,9 @@ covid_lag6
 </div>
 <div id="plot" class="section level4">
 <h4>Plot</h4>
-<p>Create a plot showing the estimated ORs and CIs for each month</p>
 <pre class="r"><code>poisson_by_month %&gt;%
   filter(term != &quot;(Intercept)&quot;) %&gt;%
+    mutate(month = fct_relevel(month, &quot;November&quot;, &quot;December&quot;, &quot;January&quot;)) %&gt;% 
   ggplot(aes(x = month, y = OR, color = term)) + 
   geom_point(show.legend = FALSE, aes()) +
   geom_errorbar(aes(ymin = CI_lower, 
@@ -1224,7 +1217,7 @@ covid_lag6
         text = element_text(size = 10),
         axis.text.x = element_text(angle = 60, hjust = 1, size = 8)) + 
   facet_grid(. ~ term)</code></pre>
-<p><img src="web_poisson_files/figure-html/unnamed-chunk-13-1.png" width="90%" /></p>
+<p><img src="web_poisson_files/figure-html/unnamed-chunk-12-1.png" width="90%" /></p>
 <p><br></p>
 </div>
 </div>
@@ -1242,12 +1235,9 @@ covid_lag6
   pivot_wider(
     names_from = term, 
     values_from = estimate) %&gt;% 
-  knitr::kable(digits = 6, caption = &quot;Poisson model nested by airline&quot;) %&gt;% 
+  knitr::kable(digits = 6) %&gt;% 
   kable_styling()</code></pre>
 <table class="table" style="margin-left: auto; margin-right: auto;">
-<caption>
-Poisson model nested by airline
-</caption>
 <thead>
 <tr>
 <th style="text-align:left;">
@@ -1436,13 +1426,9 @@ poisson_by_airline %&gt;%
   filter(term != &quot;(Intercept)&quot; ) %&gt;% 
   knitr::kable(digits = 3, 
                align = &quot;llccc&quot;, 
-               col.names = c(&quot;Airline Name&quot;, &quot;Terms&quot;, &quot;Estimated adjusted OR&quot;, &quot;CI lower bound&quot;, &quot;CI upper bound&quot;, &quot;P-value&quot;), 
-               caption = &quot;Overview of estimated OR, 95% CI and P-value&quot;)%&gt;% 
+               col.names = c(&quot;Airline Name&quot;, &quot;Terms&quot;, &quot;Estimated adjusted OR&quot;, &quot;CI lower bound&quot;, &quot;CI upper bound&quot;, &quot;P-value&quot;))%&gt;% 
   kable_styling()</code></pre>
 <table class="table" style="margin-left: auto; margin-right: auto;">
-<caption>
-Overview of estimated OR, 95% CI and P-value
-</caption>
 <thead>
 <tr>
 <th style="text-align:left;">
@@ -2032,7 +2018,6 @@ covid_lag6
 </div>
 <div id="plot-1" class="section level4">
 <h4>Plot</h4>
-<p>Create a plot showing the estimated ORs and CIs for each airline</p>
 <pre class="r"><code>poisson_by_airline %&gt;%
   filter(term != &quot;(Intercept)&quot;) %&gt;%
   ggplot(aes(x = airline_name, y = OR, color = term)) + 
@@ -2048,7 +2033,7 @@ covid_lag6
         text = element_text(size = 10),
         axis.text.x = element_text(angle = 60, hjust = 1, size = 8)) + 
   facet_grid(. ~ term)</code></pre>
-<p><img src="web_poisson_files/figure-html/unnamed-chunk-16-1.png" width="90%" /></p>
+<p><img src="web_poisson_files/figure-html/unnamed-chunk-15-1.png" width="90%" /></p>
 <p><br></p>
 </div>
 </div>
@@ -2062,28 +2047,30 @@ indicated that there indeed are differences by month and airline, we
 then stratified our Poisson model by these two factors. An interesting
 finding is that although the regression output shows that daily COVID-19
 cases have a statistically significant effect on daily flight
-cancellation, after stratifying month and airline, there is no obvious
+cancellation, after stratified by month and airline, there is no obvious
 trend between daily COVID-19 cases and daily flight cancellation based
 on graph.</p>
+<p><br></p>
 </div>
 <div id="discussion" class="section level2">
 <h2>Discussion</h2>
-<p>The daily cancellation flight dataset was extracted from the delay
-dataset, therefore we only evaluate one source of cancellation, flight
-cancellation due to delay. Furthermore, we hypothesized that just two
-factors, adverse weather and COVID-19 cases, affect daily flight
-cancellations. More elements that might influence real-life cancellation
-were not considered. As a result, we should note the constraint that
-this cancellation data does not include cancellations due to other
-factors, such as air traffic limitations. This restricted the
-information we could obtain from the cancellation dataset, preventing us
-from adjusting for variables we suspected were confounding the
-correlations.</p>
+<p>We hypothesized that just two factors, adverse weather and COVID-19
+cases, affect daily flight cancellations. I More elements that might
+influence real-life cancellation were not considered. As a result, we
+should note the constraint that this cancellation data does not include
+cancellations due to other factors, such as air traffic limitations.
+This restricted the information we could obtain from the cancellation
+dataset, preventing us from adjusting for variables we suspected were
+confounding the correlations.</p>
 <p>What’s more, the association between COVID-19 cases and daily flight
 cancellations was not as strong as we expected. One reason might be that
 the research window was too short to discover the association because
 COVID-19 cases had a time lag and we only counted 3-month cancellations
 and COVID-19 cases.</p>
+<div class="tocify-extend-page" data-unique="tocify-extend-page"
+style="height: 0;">
+
+</div>
 </div>
 
 
